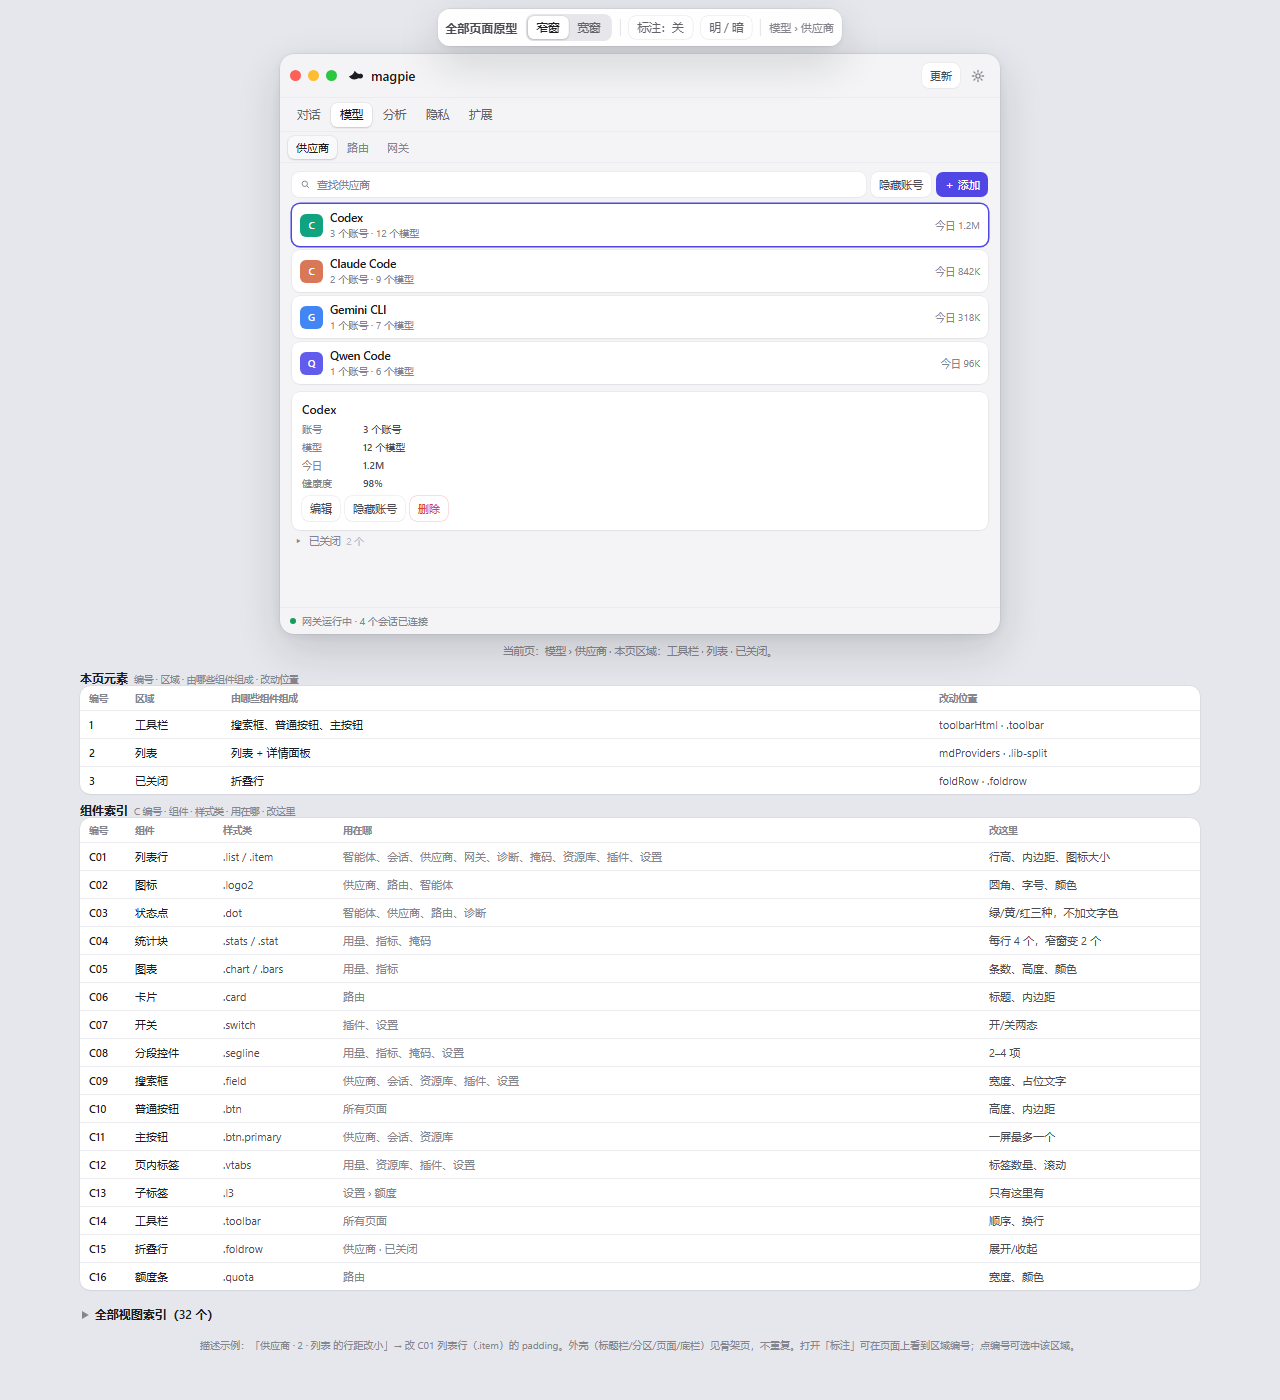
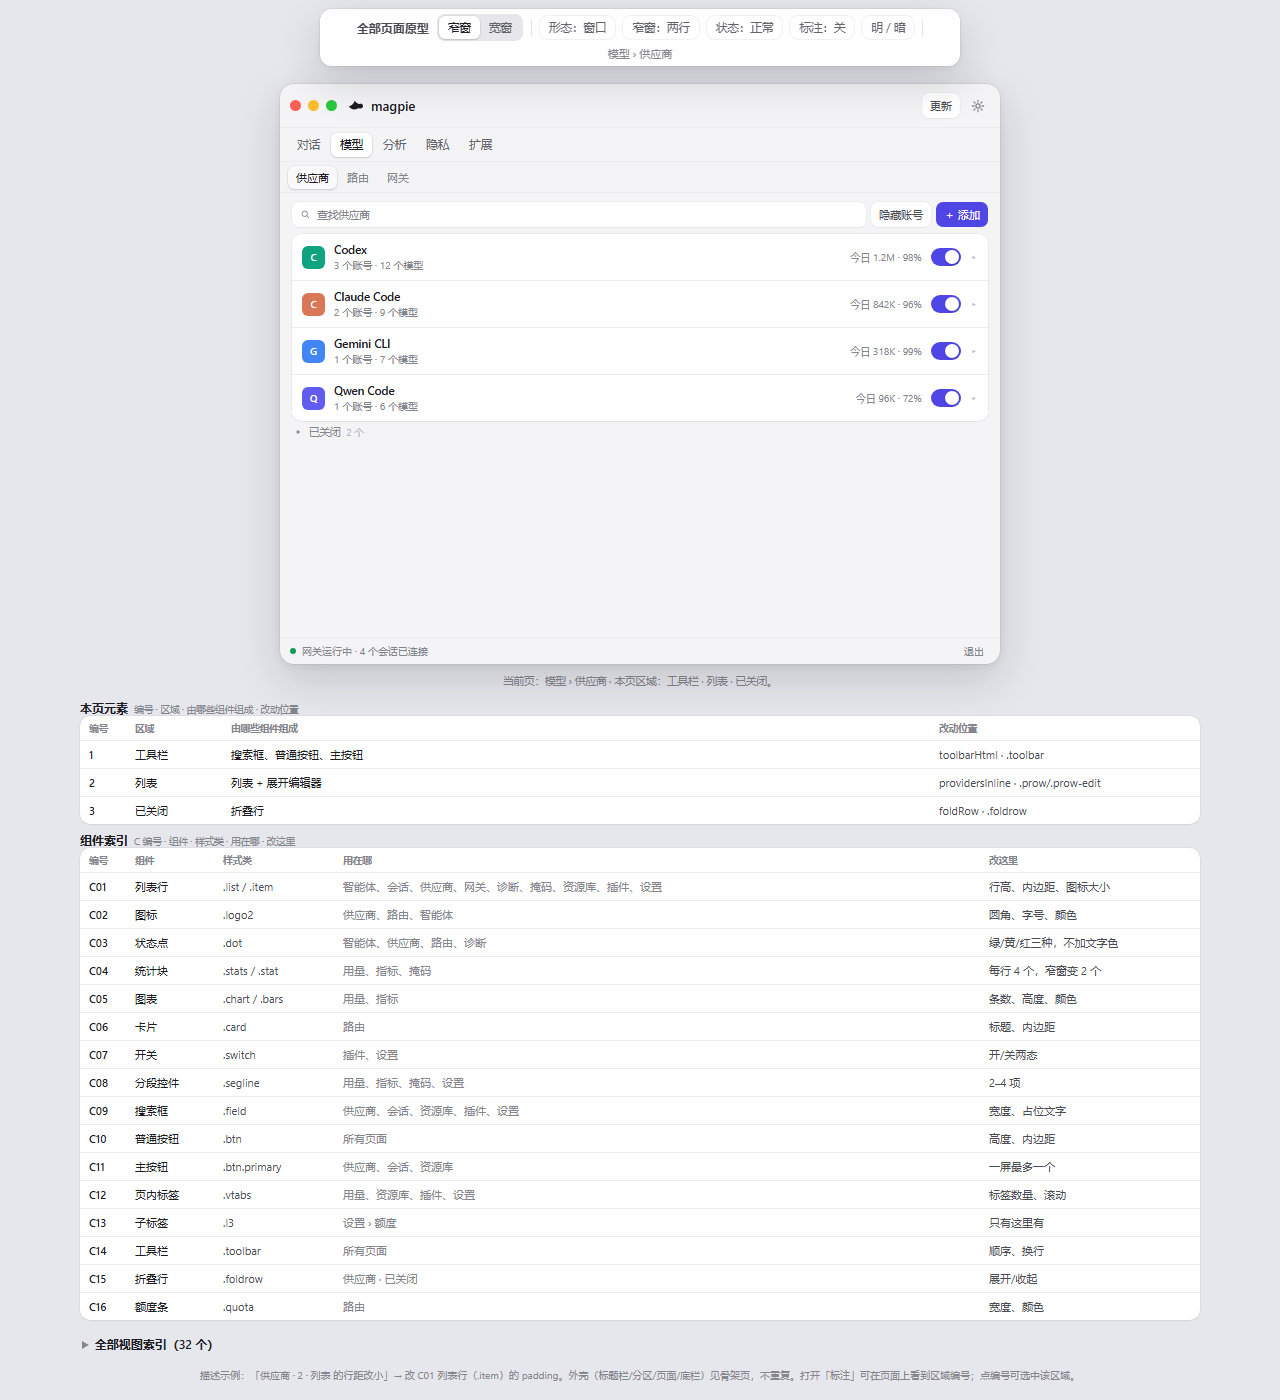
prototypes: providers expand in place, as the current app does

Changed region(s): [[0.0625, 0.43, 0.9375, 1.0], [0.2188, 0.0, 0.7812, 0.3993], [0.6875, 0.1229, 0.7812, 0.3071]]

diff --git a/workspace/附属产物/nav-refactor/all-pages.html b/workspace/附属产物/nav-refactor/all-pages.html
@@ -229,6 +229,15 @@ button{font:inherit;color:inherit;background:none;border:0;cursor:default;appear
 .phone-secs{height:44px;display:flex;align-items:center;justify-content:space-around;border-top:.5px solid var(--line-2)}
 .psec{font-size:10px;color:var(--muted);padding:4px 6px;border-radius:6px}
 .psec.on{color:var(--fg);background:var(--card);box-shadow:var(--seg-edge);font-weight:500}
+.prow{display:flex;align-items:center;gap:9px;width:100%;padding:8px 10px;background:var(--card);border-top:.5px solid var(--line-2);text-align:left}
+.prow:first-child{border-top:0}
+.prow.open{background:var(--card-2)}
+.prow .who{display:flex;flex-direction:column;min-width:0;flex:1}
+.prow .nm,.prow .sub{display:block}
+.prow .chev{color:var(--faint);font-size:10px}
+.prow-edit{padding:6px 12px 10px 42px;background:var(--card-2);border-top:.5px solid var(--line-2);display:flex;flex-direction:column;gap:4px}
+.prow-edit .item{border-top:0;padding:4px 0}
+.subhead{font-size:9.5px;font-weight:600;color:var(--muted);margin:3px 0 0}
 .phonewin .lib-split{grid-template-columns:1fr}
 .phonewin .cols{grid-template-columns:1fr}
 .phonewin .stats{grid-template-columns:1fr 1fr}
@@ -386,7 +395,7 @@ const SPEC_INFO = {
   },
   providers:{
     '工具栏':['搜索框、普通按钮、主按钮','toolbarHtml · .toolbar'],
-    '列表':['列表 + 详情面板','mdProviders · .lib-split'],
+    '列表':['列表 + 展开编辑器','providersInline · .prow/.prow-edit'],
     '已关闭':['折叠行','foldRow · .foldrow'],
   },
   routing:{
@@ -457,13 +466,14 @@ const COMPONENTS = [
 const state = {
   frame:'narrow', section:'model', page:'providers', theme:'light',
   tabs:{usage:'概览',library:'指令',plugins:'内置',settings:'额度'}, l3:'全部',
-  spec:false, sel:null, libSel:0, mdSel:0, compact:false, sheet:false, ov:null, menuAt:null, sw:{}, listState:'normal', editDirty:false, form:'window', panelTab:'额度',
+  spec:false, sel:null, libSel:0, mdSel:0, compact:false, sheet:false, ov:null, menuAt:null, sw:{}, listState:'normal', editDirty:false, form:'window', panelTab:'额度', providerOpen:null,
 };
 const qs = new URLSearchParams(location.search);
 if(qs.get('f')==='wide' || qs.get('f')==='narrow') state.frame = qs.get('f');
 if(qs.get('nav')==='one') state.compact = true;
 if(['empty','loading','error'].includes(qs.get('state'))) state.listState = qs.get('state');
 if(['panel','phone'].includes(qs.get('form'))) state.form = qs.get('form');
+if(qs.get('open')) state.providerOpen = qs.get('open');
 const ovq = qs.get('ov');
 if(ovq==='add') state.sheet = true;
 else if(ovq==='menu'){ state.ov = {kind:'menu'}; state.menuAt = {x:120,y:150}; }
@@ -908,6 +918,31 @@ function mdSessions(){
       '<button class="btn">打开</button><button class="btn" data-act="rename">重命名</button><button class="btn" data-act="rename">移动</button>');
   })];
 }
+function providerEditor(x){
+  return `<div class="prow-edit">
+    <div class="subhead">账号</div>
+    <div class="item"><span class="dot"></span><div class="who"><div class="nm">alex@example.com</div><div class="sub">ChatGPT Pro · 62% 已用</div></div><button class="btn">⋯</button></div>
+    <div class="item"><span class="dot"></span><div class="who"><div class="nm">team@example.com</div><div class="sub">ChatGPT Plus · 31% 已用</div></div><button class="btn">⋯</button></div>
+    <div class="rowbtns"><button class="btn">＋ 添加账号</button><button class="btn">登录新账号</button></div>
+    <div class="subhead">密钥与高级</div>
+    <div class="item"><div class="who"><div class="nm">API 密钥</div></div><span class="meta">2 个</span></div>
+    <div class="rowbtns"><button class="btn danger" data-act="delProvider">删除供应商</button></div>
+  </div>`;
+}
+function providersInline(){
+  const h = (n)=> (PROVIDER_INFO[n]||['','','',''])[3];
+  return [`<div class="list">${ROWS.providers.map(([n,s,m,c])=>{
+    const on = state.sw[n] !== undefined ? state.sw[n] : true;
+    const open = state.providerOpen===n;
+    return `<button class="prow${open?' open':''}" data-provider="${n}" data-mdrow="${n}">
+      <span class="logo2" style="background:${c}">${n[0]}</span>
+      <span class="who"><span class="nm">${n}</span><span class="sub">${s}</span></span>
+      <span class="meta">${m} · ${h(n)}</span>
+      <span class="switch${on?' on':''}" data-sw="${n}"></span>
+      <span class="chev">${open?'▾':'▸'}</span>
+    </button>${open?providerEditor({n,s,m,c}):''}`;
+  }).join('')}</div>`];
+}
 function mdProviders(){
   const items = ROWS.providers.map(([n,s,m,c])=>({n,s,c,meta:m}));
   return [mdSplit(items, x=>{
@@ -1009,7 +1044,7 @@ function bodyBlocks(page, kind){
   if(kind==='masking') return [maskStats(), mdMasking()];
   if(kind==='settings') return [settingsList()];
   if(kind==='gateway') return [listRows('gateway'), mdKeys()];
-  if(kind==='providers') return [mdProviders(), foldRow()];
+  if(kind==='providers') return [providersInline(), foldRow()];
   return [listRows(kind)];
 }
 function bodyNamesFor(page, tab){
@@ -1240,6 +1275,8 @@ stage.addEventListener('click', e=>{
   if(pt){ state.panelTab = pt.dataset.ptab; renderStage(); return; }
   const sw = e.target.closest('[data-sw]');
   if(sw){ const n = sw.dataset.sw; state.sw[n] = !sw.classList.contains('on'); renderStage(); return; }
+  const pr = e.target.closest('[data-provider]');
+  if(pr){ state.providerOpen = state.providerOpen===pr.dataset.provider ? null : pr.dataset.provider; renderStage(); return; }
   const act = e.target.closest('[data-act]');
   if(act){
     const a = act.dataset.act;

diff --git a/workspace/附属产物/nav-refactor/COMPARE.md b/workspace/附属产物/nav-refactor/COMPARE.md
@@ -14,7 +14,7 @@
 | 智能体 | 列表；点行展开设置 | 左列表 + 右详情（状态/账号/模型/命令） | ◐ 详情更直接 |
 | 会话 | 文件夹列表；重命名/移动走 modal | 左列表 + 右详情；表单仍静态 | ◐ 表单待补 |
 | 资源库 | 6 页签；发现 + 资源库文件夹；MCP 的 Agents/其它应用；RTK 30/90/全部 | 7 页签（新增插件库）；发现 + 文件夹；MCP 双入口；RTK 范围；全部主从 | ✅ 现行细节已补，插件库是新增 |
-| 供应商 | 点行原地展开编辑器；右键排序菜单 | 左列表 + 右详情；右键菜单可开；添加 sheet 可开 | ◐ 原地展开 vs 主从，详见浮层 1 |
+| 供应商 | 点行原地展开编辑器；右键排序菜单 | 点行原地展开编辑器；右键菜单；添加 sheet | ✅ |
 | 路由 | 左请求故事 + 右账号密钥，两栏 | 同两栏 | ✅ |
 | 网关 | 地址、最近调用、运行时长；密钥 | 网关信息 + 密钥列表 + 详情 | ✅ |
 | 用量 | 5 页签（概览/请求/会话/上下文/榜单） | 5 页签，内容各异；请求/会话/榜单主从 | ✅ |

diff --git a/workspace/附属产物/nav-refactor/README.md b/workspace/附属产物/nav-refactor/README.md
@@ -60,7 +60,7 @@
 
 每个视图都只用同一套组件；窗口下方的“本页元素”表会跟着当前标签变。24 个页内视图已逐个核对：区域名与表格行全部一致。
 
-列表类页面统一用「左列表 + 右详情」：智能体、会话、供应商、诊断、掩码、插件、资源库 7 个页签、用量的请求/会话/榜单。窄窗自动上下排，选中一行就能看到详情和操作，不用再点进弹窗。
+列表类页面统一用「左列表 + 右详情」：智能体、会话、诊断、掩码、插件、资源库 7 个页签、用量的请求/会话/榜单。窄窗自动上下排，选中一行就能看到详情和操作，不用再点进弹窗。供应商按现行版“点行原地展开”。
 
 窄窗顶部可切「两行 / 一行」：两行是分区条 + 页面条；一行把分区做小标签、和页面标签合并，省约 31px。一行时当前分区高亮，打开靠右的页面会自动滚到可见。
 
